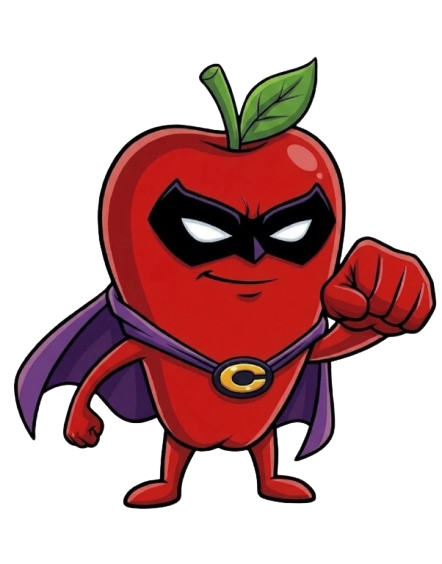
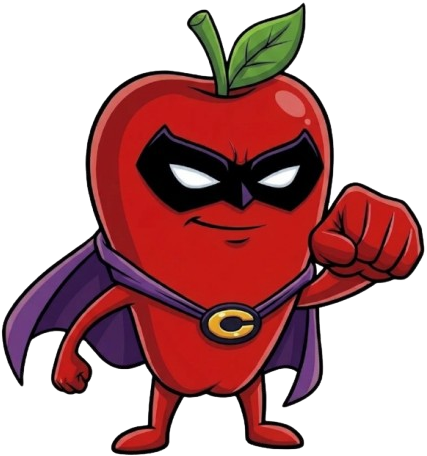
Darker menu background, brighter buttons, hero planted on the podium
Trim transparent margins from the hero PNG so its feet sit on the podium ring; replace the bounce with a feet-anchored breathing idle.

diff --git a/apps/web/src/styles.css b/apps/web/src/styles.css
@@ -62,7 +62,7 @@ button {
   gap: 10px;
   padding-top: calc(10px + env(safe-area-inset-top, 0px));
   overflow: hidden;
-  background: radial-gradient(120% 70% at 50% 45%, var(--blue-1) 0%, var(--blue-2) 55%, var(--blue-3) 100%);
+  background: radial-gradient(120% 70% at 50% 45%, #3e78d6 0%, #1f429e 55%, #0e1a55 100%);
 }
 
 @keyframes spin {
@@ -208,10 +208,11 @@ button {
   align-items: center;
   gap: 8px;
   padding: 4px 6px 4px 14px;
-  background: var(--navy);
+  background: linear-gradient(#5f8ef0, #3a62cf);
   border: 3px solid var(--ink);
   border-radius: 20px;
-  color: #cfe0ff;
+  box-shadow: inset 0 2px 0 rgba(255, 255, 255, 0.35);
+  color: #fff;
   font-size: 14px;
 }
 
@@ -336,40 +337,48 @@ button {
   pointer-events: none;
 }
 
+/* both are centred on the hero's foot line (var(--podium-y) above the box bottom) */
 .hero-box::before {
   width: min(78%, 320px);
   height: 46px;
-  background: radial-gradient(closest-side, rgba(255, 255, 255, 0.55), rgba(190, 230, 255, 0.25) 60%, transparent);
+  bottom: calc(var(--podium-y) - 23px);
+  background: radial-gradient(closest-side, rgba(170, 215, 255, 0.5), rgba(120, 180, 255, 0.18) 60%, transparent);
 }
 
 .hero-box::after {
   width: min(56%, 230px);
   height: 22px;
-  bottom: 10px;
-  border: 3px solid rgba(255, 255, 255, 0.35);
+  bottom: calc(var(--podium-y) - 11px);
+  border: 3px solid rgba(200, 230, 255, 0.4);
 }
 
 /* The SVG scales down to whatever space is left, keeping its proportions */
+/* The hero's feet rest exactly on the podium ring (its centre is PODIUM_Y above the box bottom). */
+.hero-box {
+  --podium-y: 16px;
+}
+
 .hero {
   position: absolute;
-  inset: 0;
+  inset: 0 0 var(--podium-y) 0;
   width: 100%;
-  height: 100%;
+  height: calc(100% - var(--podium-y));
   object-fit: contain; /* whole picture visible, never stretched */
   object-position: 50% 100%;
-  filter: drop-shadow(0 8px 6px rgba(15, 30, 100, 0.35));
+  filter: drop-shadow(0 8px 6px rgba(5, 10, 40, 0.45));
   pointer-events: none;
-  animation: bob 2.4s ease-in-out infinite;
+  /* "breathing" idle: feet stay planted on the podium, the body gently rises */
+  animation: breathe 2.6s ease-in-out infinite;
   transform-origin: 50% 100%;
 }
 
-@keyframes bob {
+@keyframes breathe {
   0%,
   100% {
-    transform: translateY(0) scale(1, 1);
+    transform: scale(1, 1);
   }
   50% {
-    transform: translateY(-6px) scale(1.01, 0.99);
+    transform: scale(0.99, 1.025);
   }
 }
 
@@ -424,10 +433,13 @@ button {
   flex-direction: column;
   align-items: center;
   gap: 2px;
-  background: linear-gradient(#3550b8, #232f86);
+  /* bright blue so it stands out on the dark background */
+  background: linear-gradient(#7cb6ff, #3f7bf0);
   border: 3px solid var(--ink);
   border-radius: 14px;
-  box-shadow: 0 4px 0 var(--ink);
+  box-shadow:
+    inset 0 3px 0 rgba(255, 255, 255, 0.45),
+    0 4px 0 var(--ink);
   z-index: 2;
 }
 
@@ -482,7 +494,7 @@ button {
   align-items: center;
   justify-content: center;
   gap: 2px;
-  background: linear-gradient(#5aa2ff, #2f63e0);
+  background: linear-gradient(#8cc4ff, #4a86f2);
 }
 
 .tile span {
@@ -507,7 +519,7 @@ button {
   display: grid;
   grid-template-columns: repeat(5, 1fr);
   padding-bottom: env(safe-area-inset-bottom, 0px);
-  background: var(--navy);
+  background: linear-gradient(#4a72dc, #3253b8);
   border-top: 3px solid var(--ink);
 }
 
@@ -530,8 +542,8 @@ button {
 }
 
 .bottom-nav .active {
-  background: linear-gradient(#4a6fe0, #2b3d9e);
-  box-shadow: inset 0 3px 0 rgba(255, 255, 255, 0.25);
+  background: linear-gradient(#8cc4ff, #4f8af2);
+  box-shadow: inset 0 3px 0 rgba(255, 255, 255, 0.45);
 }
 
 .bottom-nav .active svg {

diff --git a/apps/web/src/ui/MenuBackdrop.tsx b/apps/web/src/ui/MenuBackdrop.tsx
@@ -21,9 +21,10 @@ export function MenuBackdrop() {
     <svg className="menu-backdrop" viewBox="0 0 400 800" preserveAspectRatio="xMidYMid slice" aria-hidden>
       <defs>
         <radialGradient id="mb-sky" cx="0.5" cy="0.42" r="0.75">
-          <stop offset="0" stopColor="#8fdcff" />
-          <stop offset="0.45" stopColor="#3f93ff" />
-          <stop offset="1" stopColor="#1f3fae" />
+          {/* deep, calm blue: a soft glow behind the hero, dark towards the edges */}
+          <stop offset="0" stopColor="#3e78d6" />
+          <stop offset="0.5" stopColor="#1f429e" />
+          <stop offset="1" stopColor="#0e1a55" />
         </radialGradient>
         <pattern id="mb-dots" width="12" height="12" patternUnits="userSpaceOnUse">
           <circle cx="6" cy="6" r="1.6" fill="#fff" />
@@ -37,32 +38,32 @@ export function MenuBackdrop() {
           <rect width="400" height="800" fill="url(#mb-dot-fade)" />
         </mask>
         <linearGradient id="mb-arena" x1="0" y1="0" x2="0" y2="1">
-          <stop offset="0" stopColor="#bfe6ff" stopOpacity="0.32" />
-          <stop offset="1" stopColor="#bfe6ff" stopOpacity="0.05" />
+          <stop offset="0" stopColor="#9fd0ff" stopOpacity="0.2" />
+          <stop offset="1" stopColor="#9fd0ff" stopOpacity="0.03" />
         </linearGradient>
       </defs>
 
       <rect width="400" height="800" fill="url(#mb-sky)" />
 
       {/* soft rays from behind the hero */}
-      <g className="mb-rays" fill="#fff" opacity="0.07">
+      <g className="mb-rays" fill="#fff" opacity="0.045">
         {Array.from({ length: RAY_COUNT }, (_, i) => (
           <path key={i} d="M200 330 L185 -600 L215 -600 Z" transform={`rotate(${(360 / RAY_COUNT) * i} 200 330)`} />
         ))}
       </g>
 
       {/* comic halftone dots fading in towards the corners */}
-      <rect width="400" height="800" fill="url(#mb-dots)" mask="url(#mb-dot-mask)" opacity="0.14" />
+      <rect width="400" height="800" fill="url(#mb-dots)" mask="url(#mb-dot-mask)" opacity="0.08" />
 
       {/* drifting clouds */}
-      <g fill="#fff" opacity="0.16">
+      <g fill="#fff" opacity="0.08">
         <path className="mb-cloud" d="M-10 205 q8-20 30-14 q12-18 32-6 q22-4 22 18 z" />
         <path className="mb-cloud slow" d="M300 250 q8-18 28-12 q12-15 28-4 q20-2 18 16 z" />
         <path className="mb-cloud" d="M250 70 q6-14 22-9 q9-12 22-3 q15-1 13 12 z" />
       </g>
 
       {/* faint fitness outlines */}
-      <g fill="none" stroke="#fff" strokeWidth="4" strokeLinecap="round" strokeLinejoin="round" opacity="0.1">
+      <g fill="none" stroke="#fff" strokeWidth="4" strokeLinecap="round" strokeLinejoin="round" opacity="0.07">
         {/* outer <g> places the shape; the inner one is animated by CSS
             (a CSS transform would otherwise replace the position) */}
         <g transform="translate(48 300) rotate(-24)">

diff --git a/CLAUDE.md b/CLAUDE.md
@@ -36,7 +36,9 @@
 | Герой (маскот) | картинка пользователя: яблоко-супергерой в маске и плаще — `apps/web/src/assets/hero-apple.png` |
 | Характеристики на главном | ряда статов больше нет — кнопка «Статы» (справа в ряду с приветствием: «Друзья» | облачко | «Статы») открывает окно «Характеристики» (ui/StatsModal.tsx): 4 стата, значение и каким упражнением растёт. Герой за счёт этого крупнее |
 | Настройки (кнопка) | иконка-шестерня **без надписи** справа в верхней строке: уровень · ранг · ⚙ (SettingsGearIcon — своя объёмная стальная шестерня со сквозным отверстием, по примеру пользователя; обводка тёмно-синяя как во всём UI). При нажатии поворачивается |
-| Фон меню | ui/MenuBackdrop.tsx (SVG, своё): глубокий синий радиальный градиент (светлее за героем), мягкие медленные лучи, полутоновые точки по углам, едва заметный силуэт арены внизу, дрейфующие облачка, мерцающие звёздочки, полупрозрачные контуры гантели и гири. Под героем — светящийся подиум (.hero-box::before/::after). Используется на главном и на экране разминки. Все анимации гасятся «Меньше анимаций» |
+| Фон меню | ui/MenuBackdrop.tsx (SVG, своё): **тёмный** глубокий синий (#3e78d6 → #1f429e → #0e1a55, светлее за героем); детали приглушены, мягкие медленные лучи, полутоновые точки по углам, едва заметный силуэт арены внизу, дрейфующие облачка, мерцающие звёздочки, полупрозрачные контуры гантели и гири. Под героем — светящийся подиум (.hero-box::before/::after). Используется на главном и на экране разминки. Все анимации гасятся «Меньше анимаций» |
+| Кнопки на главном | **светлые** на тёмном фоне: боковые #7cb6ff→#3f7bf0, «Арены» #8cc4ff→#4a86f2, ранг #5f8ef0→#3a62cf, нижнее меню #4a72dc→#3253b8 (активная вкладка светлее) |
+| Анимация героя | «дыхание» (scale от ног, reathe), ноги не отрываются; ноги стоят ровно на кольце подиума (--podium-y: 16px). PNG героя обрезан от прозрачных полей (427×456) |
 | Значок уровня | свой SVG: оранжевый щит с гранями, «УР.»/«LVL» сверху, цифра снизу (`ui/LevelBadge.tsx`) |
 | Хостинг сайта | GitHub Pages (бесплатно, HTTPS), деплой автоматически при push в `main` |
 | Настройки | язык (ru/en), громкость: общая / музыка / эффекты, яркость (60–130%, это CSS-фильтр картинки игры — яркость экрана телефона веб-приложению недоступна), «Меньше анимаций», вибрация, сброс. Хранятся в `localStorage rl.settings` |
@@ -144,4 +146,5 @@ apps/web/
 - 2026-11-15 — Ряд характеристик убран с главного экрана → кнопка «Статы» (под «Друзьями») + окно «Характеристики» с пояснением, каким упражнением качается стат. Герой стал крупнее (напр. 390×700: 353 px). Проверено на 4 размерах: кнопки не пересекаются.
 - 2026-11-15 — «Настройки» → шестерня без надписи в правом верхнем углу (верхняя строка: уровень · ранг · ⚙). «Статы» переехали на место бывших «Настроек» (справа от приветствия). Проверено на 4 размерах: пересечений нет.
 - 2026-11-15 — Новый фон меню (MenuBackdrop): спокойный синий с мягкими лучами, силуэтом арены, облачками, звёздочками, контурами гантели/гири, полутонами; светящийся подиум под героем. Заменил старые CSS-лучи (.rays удалён). Проверено на 4 размерах.
+- 2026-11-15 — Фон затемнён, кнопки (боковые, «Арены», ранг, нижнее меню) осветлены. Герой проходил сквозь кольцо подиума: у PNG было 55 px пустоты под ногами → картинка обрезана от прозрачных полей, ноги поставлены на центр кольца, подпрыгивание заменено «дыханием» (ноги на месте).
 - 2026-11-15 — По просьбе пользователя аккаунт GitHub переименован `silindanniil-byte` → `scream-byte`. Новый адрес сайта: https://scream-byte.github.io/rep-legends/. Обновлены git remote, автор коммитов, все документы. Пользователь должен обновить URL в @BotFather (Main App + Menu Button).
